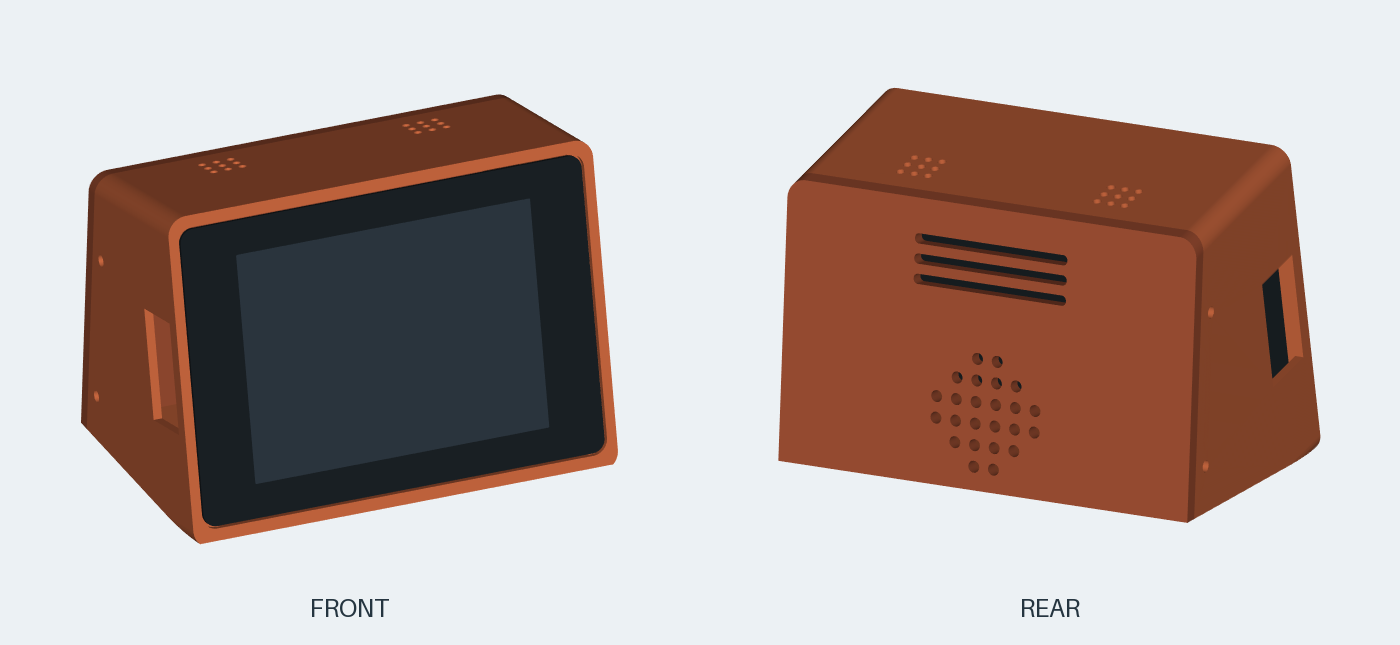
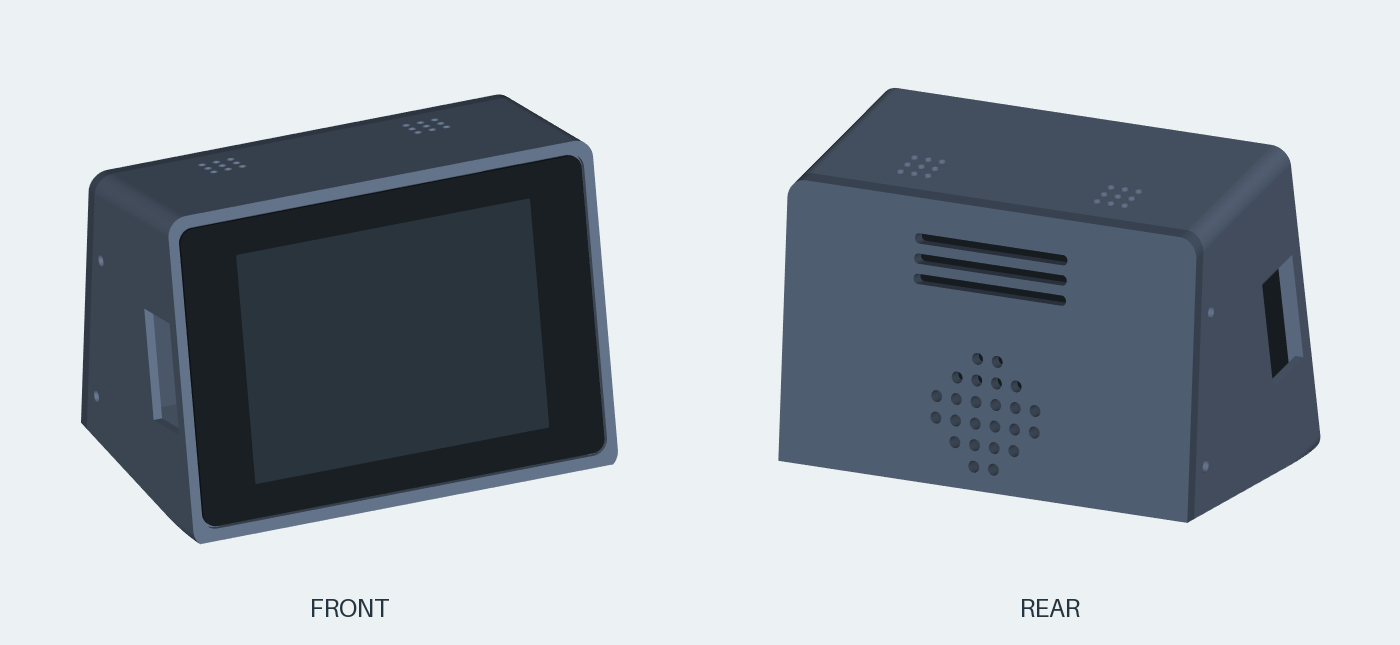
Feature the portrait enclosure in slate

Changed region(s): [[0.5529, 0.124, 0.9521, 0.8062], [0.0307, 0.124, 0.4607, 0.8372]]

diff --git a/hardware/enclosures/render.py b/hardware/enclosures/render.py
@@ -75,9 +75,8 @@ def render_case(panel, portrait, audio, parts, controls, gauge, path):
     glass = rounded(0, 0, GLASS_Z, width, height, 0.7, 2.5)
     display = rounded(0, 0, GLASS_Z - 0.06, active_w, active_h, 0.08, 0.25)
     solids = (*parts, glass, display, *controls)
-    shell_colors = ((223, 219, 211), (198, 194, 185)) if portrait else ((191, 98, 60), (154, 77, 50))
-    colors = (*shell_colors, (25, 31, 35), (42, 53, 62))
-    colors += ((48, 43, 39),) * len(controls)
+    colors = ((100, 116, 139), (82, 97, 117), (25, 31, 35), (42, 53, 62))
+    colors += ((45, 54, 66),) * len(controls)
     actors = [
         actor(solid.rotate((0, 0, 0), (1, 0, 0), TILT), color)
         for solid, color in zip(solids, colors)
@@ -100,7 +99,7 @@ def render_case(panel, portrait, audio, parts, controls, gauge, path):
         plug = gauge.rotate((0, 0, 0), (1, 0, 0), TILT)
         center = plug.Center().toTuple()
         # With the cover removed, the cable and elbow are visible together.
-        detail = model_view([actors[0], actor(plug, (237, 156, 70))], center, (75, 52, 220), 31)
+        detail = model_view([actors[0], actor(plug, (145, 207, 242))], center, (75, 52, 220), 31)
         detail.save(path.with_name("portrait-usb-detail.png"), optimize=True)
 
 

diff --git a/README.md b/README.md
@@ -230,7 +230,7 @@ Each enclosure has a narrow rim, an integrated base, printed BOOT and RESET
 buttons, and a printed power slider. Choose a plain case or an audio version with a top-facing mic and
 rear speaker mount. [STLs, CAD previews, and assembly guide](hardware/enclosures/README.md)
 
-[![3.5-inch landscape audio enclosure, front and rear](hardware/enclosures/renders/onx3248g035-landscape-audio.png)](hardware/enclosures/README.md)
+[![3.5-inch portrait audio enclosure, front and rear](hardware/enclosures/renders/onx3248g035-portrait-audio.png)](hardware/enclosures/README.md)
 
 ## Get started
 
